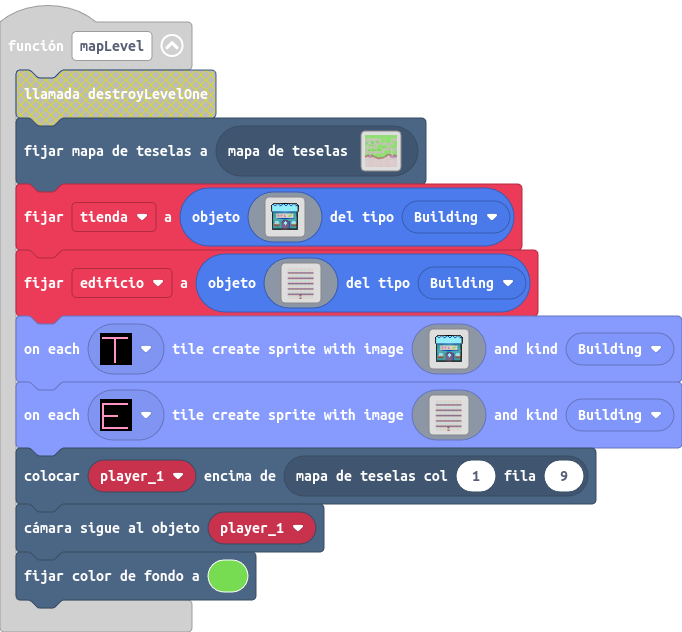
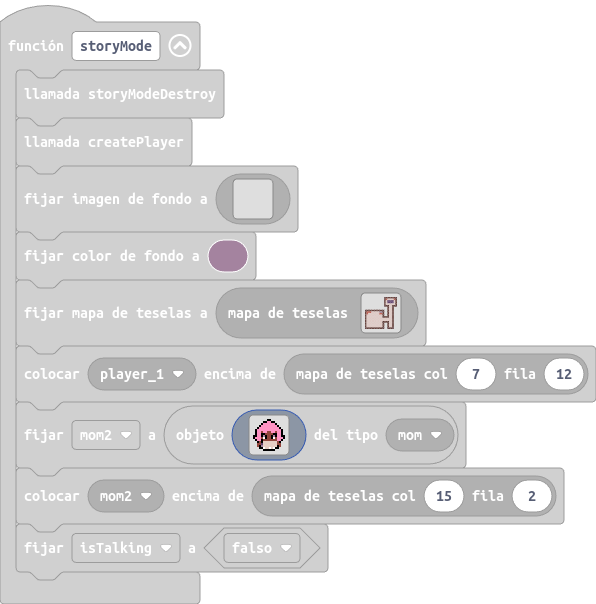
nuevo estilo de la madre

diff --git a/main.ts b/main.ts
@@ -266,21 +266,21 @@ function storyMode () {
     tiles.placeOnTile(player_1, tiles.getTileLocation(7, 12))
     mom2 = sprites.create(img`
         . . . . . . . f f . . . . . . . 
-        . . . . . f f 4 4 f f . . . . . 
-        . . . . f 5 4 5 5 4 5 f . . . . 
-        . . . f e 4 5 5 5 5 4 e f . . . 
-        . . f b 3 e 4 4 4 4 e 3 b f . . 
-        . f e 3 3 3 3 3 3 3 3 3 3 e f . 
-        . f 3 3 e b 3 e e 3 b e 3 3 f . 
-        . f b 3 f f e e e e f f 3 b f . 
-        f f b b f b f e e f b f b b f f 
-        f b b b e 1 f 4 4 f 1 e b b b f 
-        . f b b f 4 4 4 4 4 e e b b f . 
-        . . f e f b d d d e 4 4 4 f . . 
-        . . e 4 c d d d d e 4 4 e f . . 
-        . . e f b b d b d d e e f . . . 
-        . . . f f 1 1 d 1 d 1 f f . . . 
-        . . . . . f b b f f f . . . . . 
+        . . . . . f f 3 3 f f . . . . . 
+        . . . . f 3 3 3 3 3 3 f . . . . 
+        . . . f 3 3 3 3 3 3 3 3 f . . . 
+        . . f 3 3 3 3 3 3 3 3 3 3 f . . 
+        . f 3 3 3 3 3 3 3 3 3 3 3 3 f . 
+        . f 3 3 e 3 3 e e 3 3 e 3 3 f . 
+        . f 3 3 f f e e e e f f 3 3 f . 
+        f f 3 3 f b f e e f b f 3 3 f f 
+        f 3 3 3 e 1 f e e f 1 e 3 3 3 f 
+        . f 3 3 f e e e e e e e 3 3 f . 
+        . . f e f d d d d d d d e f . . 
+        . . e e c d d d d d d d e e . . 
+        . . e f b d d d d d d d f e . . 
+        . . . f f 1 d d 1 d 1 f f . . . 
+        . . . . . f f f f f f . . . . . 
         `, SpriteKind.mom)
     tiles.placeOnTile(mom2, tiles.getTileLocation(15, 2))
     isTalking = false

diff --git a/tilemap.g.ts b/tilemap.g.ts
@@ -367,6 +367,25 @@ namespace myTiles {
 . . . . . . . . . . . . . . . . 
 . . . . . . . . . . . . . . . . 
 `, [myTiles.transparency16], TileScale.Sixteen);
+            case "nivel9":
+            case "nivel9":return tiles.createTilemap(hex`1000100000000000000000000000000000000000000000000000000000000000000000000000000000000000000000000000000000000000000000000000000000000000000000000000000000000000000000000000000000000000000000000000000000000000000000000000000000000000000000000000000000000000000000000000000000000000000000000000000000000000000000000000000000000000000000000000000000000000000000000000000000000000000000000000000000000000000000000000000000000000000000000000000000000000000000000000000000000000000000000000000000000000000000000000000000000000`, img`
+. . . . . . . . . . . . . . . . 
+. . . . . . . . . . . . . . . . 
+. . . . . . . . . . . . . . . . 
+. . . . . . . . . . . . . . . . 
+. . . . . . . . . . . . . . . . 
+. . . . . . . . . . . . . . . . 
+. . . . . . . . . . . . . . . . 
+. . . . . . . . . . . . . . . . 
+. . . . . . . . . . . . . . . . 
+. . . . . . . . . . . . . . . . 
+. . . . . . . . . . . . . . . . 
+. . . . . . . . . . . . . . . . 
+. . . . . . . . . . . . . . . . 
+. . . . . . . . . . . . . . . . 
+. . . . . . . . . . . . . . . . 
+. . . . . . . . . . . . . . . . 
+`, [myTiles.transparency16], TileScale.Sixteen);
         }
         return null;
     })
